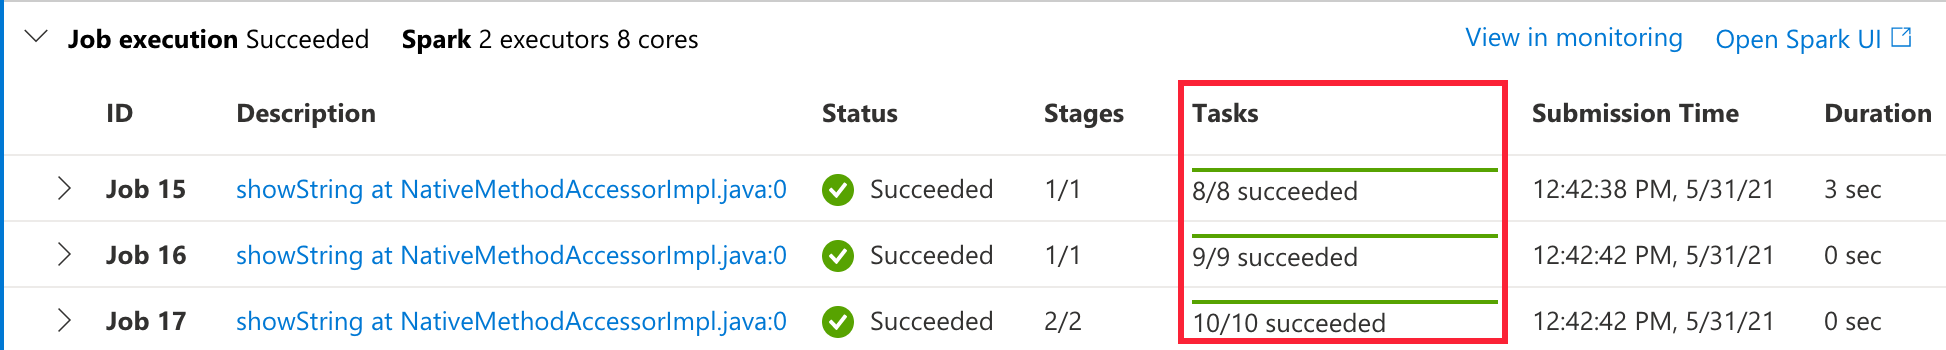
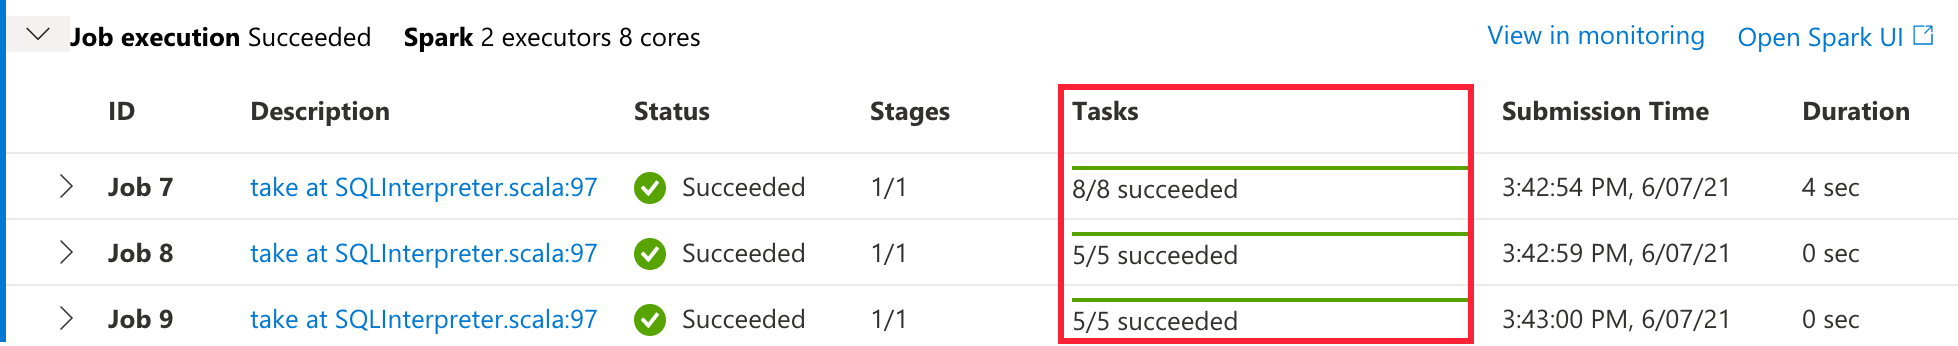
Update Spark 3 additions

diff --git a/01-explore-data-lake.md b/01-explore-data-lake.md
@@ -143,27 +143,34 @@ In this task, you will browse your data lake using serverless SQL pool.
 
     > This notebook demonstrates the same functionality, except this time, it loads CSV files instead of Parquet ones (notice the `factsale-csv` folder in the path).
 
-11. Add another cell by hovering over the area just to the bottom of the current notebook cell, then select **{} Add code** to add a new cell.
-    
-    ![The add code button is highlighted.](media/add-cell.png "Add code")
-
-12. Paste the following into the cell and select the **Run cell** button to execute the new cell. This will calculate a distinct count of stock items by city and display the 10 cities with the most unique items sold in the dataset.
+11. Add another cell and paste the following into the cell. Select the **Run cell** button to execute. The first line of this statement registers the dataset as a temporary table. The rest of the statement is setting configurations used by Apache Spark 3.0.
 
     ```python
-    from pyspark.sql.functions import col, countDistinct, desc
-    
+    data_path.createOrReplaceTempView("factsale_tmp")
+
     spark.conf.set("spark.sql.adaptive.enabled", "true")
     spark.conf.set("spark.sql.adaptive.coalescePartitions.enabled", "true")
-    
-    items_by_city = (
-      data_path
-        .groupBy("CityKey")
-        .agg(countDistinct("StockItemKey"))
-        .orderBy(desc("count(StockItemKey)")) 
-    )
-    
-    items_by_city.limit(10).show()
+    spark.conf.set("spark.sql.adaptive.coalescePartitions.minPartitionNum", 4)
+    spark.conf.set("spark.sql.ansi.enabled", "true")
     ```
+
+    > The Apache Spark pool for the lab is using Spark 3.0, which provides performance benefits over previous versions. These configurations enable Adaptive Query Execution and set how Spark should optimize partitioning during job execution. ANSI SQL is also enabled to check for data type errors and overflow errors.
+
+12. Add another cell and paste the following statement. Select the **Run cell** button to execute. This uses the magic command `%%sql` to change language of the cell to Spark SQL. The SQL statement returns the top 10 cities based on total quantity.
+
+    ```sql
+    %%sql
+    SELECT 
+        CityKey,
+        SUM(Quantity) FILTER (WHERE CustomerKey != 0) as TotalQuantity,
+        COUNT(DISTINCT StockItemKey) as UniqueItems
+    FROM factsale_tmp
+    GROUP BY CityKey
+    ORDER BY TotalQuantity desc
+    LIMIT 10
+    ```
+
+    > Since ANSI SQL is enabled, if Quantity values are not numeric this query would return an error instead of treating the value as `NULL`.
 
 13. Expand the job execution summary by selecting the arrow next to **Job execution**.
 
@@ -171,10 +178,10 @@ In this task, you will browse your data lake using serverless SQL pool.
 
     > The job execution shows the jobs, stages, and tasks that Spark ran when the cell was executed. This view is important to understand the duration and other performance characteristics that are important if the notebook will be used repeatedly.
 
-14. Notice the **Tasks** column shows about 10 tasks per job which is suitable for this small cluster and dataset. When running the same code with a larger dataset, the Adaptive Query Execution feature of Spark 3.0 can modify the query plan to be more efficient. In addition, you can enable autoscaling on your Apache Spark pool so it can automatically grow when the workload on the Spark pool increases.
+14. Notice the **Tasks** column shows the first job with 8 tasks then adjusts to 5 for tasks per job which is suitable for this small cluster and dataset. When running the same code with a larger dataset, the Adaptive Query Execution feature of Spark 3.0 can modify the query plan to be more efficient. In addition, you can enable autoscaling on your Apache Spark pool so it can automatically grow when the workload on the Spark pool increases.
 
     ![The job execution is displayed and the Tasks column is highlighted.](media/notebook-spark-job-execution-expanded.png "Job execution tasks")
 
-    > The Apache Spark pool for the lab is using Spark 3.0, which provides several performance benefits over previous versions. Prior to Spark 3.0 the group by and order by in this cell would result in over 400 tasks. Other Spark 3.0 performance benefits may be noticed when joining datasets and working with skewed data.
+    > Without Adaptive Query Execution enabled, the group by and order by in this cell would result in over 400 tasks. Spark 3.0 has improved on these tuning options and introduced additional performance benefits which may be noticed when joining datasets and working with skewed data.
 
 15. **Important**: If you are continuing to Exercise 2 now, _leave this notebook open for the first task_ of the next exercise. This way, you can continue to use this notebook and the running Spark session, saving you time.
